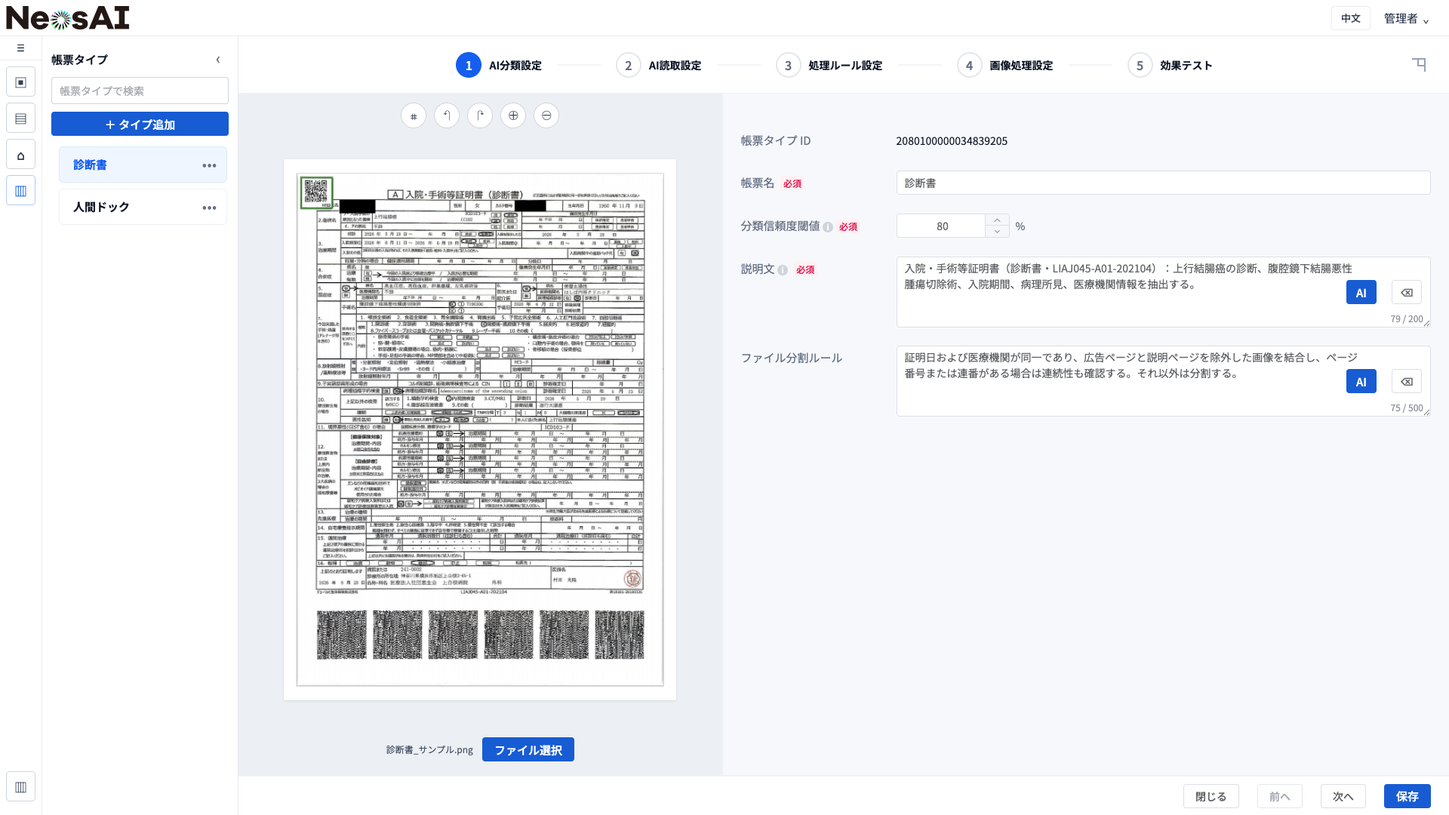
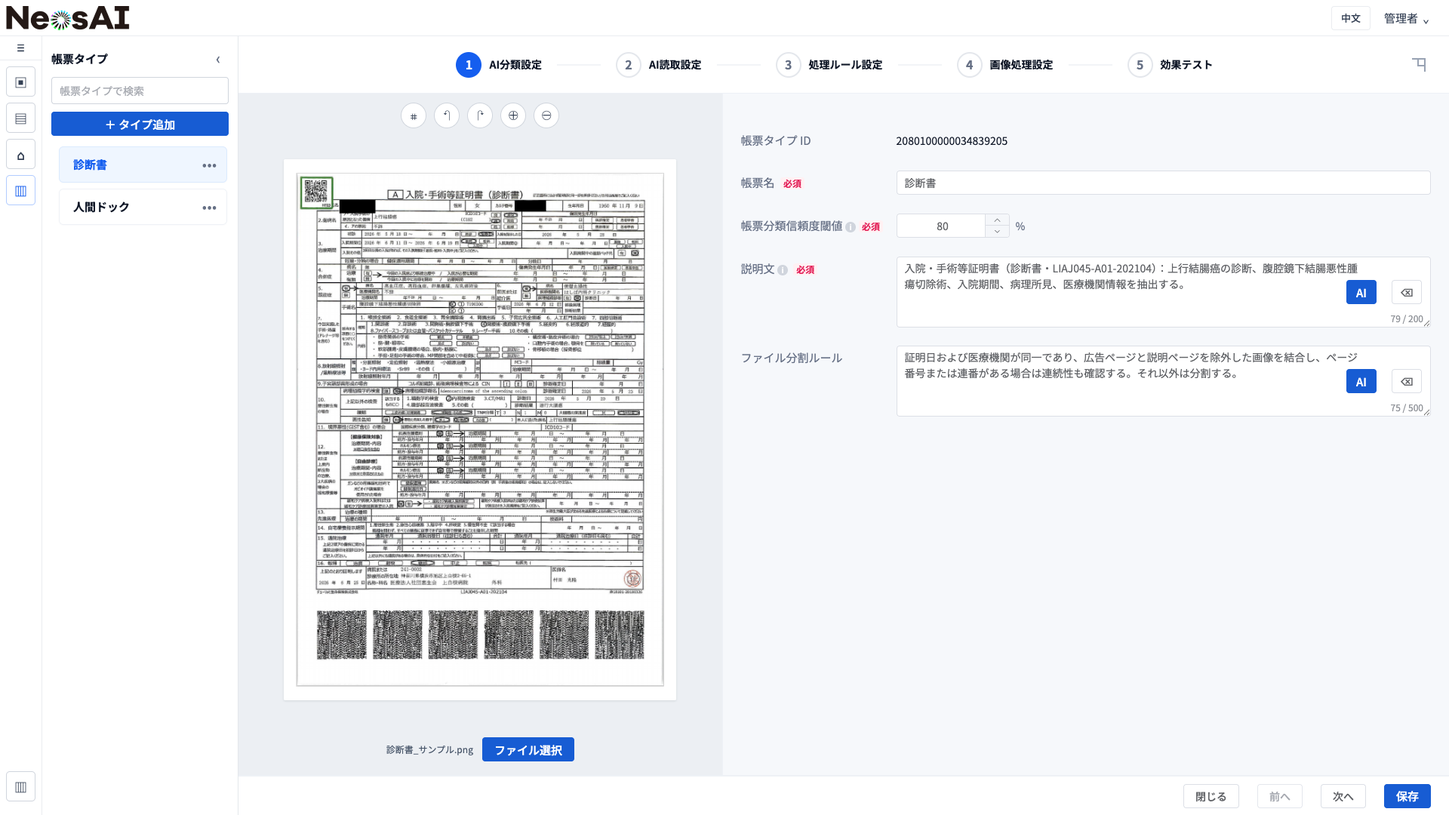
帳票タイプ設定：分類信頼度閾値 → 帳票分類信頼度閾値 に改名
原型（Step1 ラベル）・PRD（用語表 / 機能点 / フィールド表 / 界面文案）・図注キャプションを一括で更新し、Step1 スクリーンショットも撮り直した。

diff --git a/prd-public/index.html b/prd-public/index.html
@@ -399,13 +399,13 @@
       </div>
     </aside>
     <main class="main">
-      <div class="main__meta">由 PRD.zh-CN.md 生成 · 2026/10/8 16:58:00</div>
+      <div class="main__meta">由 PRD.zh-CN.md 生成 · 2026/10/8 17:12:06</div>
       <article class="paper">
 <h1>NeosAI 日本保险 IDP — 产品需求文档</h1>
 <p>本稿表记：<mark class="change-modified">黄色＝修改</mark>、<ins class="change-added">蓝色＝新增</ins>、<del class="change-deleted">红色＝删除</del>。</p>
 <h2 id="chapter-1" class="chapter-heading">第 1 章｜术语与词汇表</h2>
 <h3 class="section-heading">1.1 术语表（本期新增）</h3>
-<table><thead><tr><th>中文</th><th>日语/界面</th><th>定义</th></tr></thead><tbody><tr><td>画像不正検知</td><td>画像不正検知</td><td>前处理节点内模块：一级开关；二级为 PS検出 / AI生成検出 / 帳票特徴検出 / 筆跡検出，各自独立开关 + 对象账票（分开选，默认均 ON）。运行时四个二级检测并行执行。模型输出通过/不通过，不通过时须返回不正类型字段给后端</td></tr><tr><td>不正类型</td><td>不正タイプ</td><td>画像不正検知判「不通过」时返回的枚举（与命中的二级检测对应，如 PS / AI生成 / 帳票特徴 / 筆跡）；供后端与前处理人工确认页展示</td></tr><tr><td>QR 字段读取</td><td>QR読取（複数）</td><td>运行时能力：针对 Step2 字段读取 tab（界面：テキスト読取）的 QR 读取<del class="change-deleted">，按 admin 配置的字段映射逐字段写值</del><mark class="change-modified">（LIAJ 診断書模板为 QR 連結読取，按字段顺序整体写值）</mark>；OCR 节点执行时工具扫描/解码并写值；テーブル情報読取 不参与 QR</td></tr><tr><td><del class="change-deleted">QR 源</del></td><td><del class="change-deleted">QRソース</del></td><td><del class="change-deleted">账票级逻辑槽位（QR1、QR2…）；配置端在固定账票下方扫描区域内从左到右检出；检出几个生成几个；目录仅展示扫描结果，不可手动删改</del></td></tr><tr><td><del class="change-deleted">取值方法</del></td><td><del class="change-deleted">取値方法</del></td><td><del class="change-deleted">字段级 QR 分隔开关：关闭时全文取值（QR扫描到的内容全部填入该字段），开启时按分隔符与字段排序取值</del></td></tr><tr><td><ins class="change-added">QR 連結読取</ins></td><td><ins class="change-added">QR読取（連結）</ins></td><td><ins class="change-added">LIAJ 診断書模板专用的读取方式：把多个数据 QR 的解码结果按槽位顺序接成一长串，用 <code>$</code> 和 <code>^</code> 两个同级分隔符切开，再照字段表的顺序一个字段填一个值。切出来的值有几个，就叫「写入值数」；写入值数必须刚好等于该账票已配置的字段数（即字段表行数，A01 当前为 407），对不上就整份诊断书改走 OCR</ins></td></tr><tr><td><ins class="change-added">QR 槽位</ins></td><td><ins class="change-added">QR1、QR2…（槽位）</ins></td><td><ins class="change-added">固定账票下方扫描区从左到右检出的 QR 位置（QR1、QR2…）。槽位数不预设，扫到几个就是几个，每个账票的 QR 仕样里也不写死个数。槽位条只列实际检出的 QR，不决定走 QR 还是 OCR</ins></td></tr><tr><td><del class="change-deleted">分隔符</del></td><td><del class="change-deleted">区切り文字</del></td><td><del class="change-deleted">分隔模式下用于切分 QR 解码串的分隔符；连续分隔符之间视为空字段；段内空串或空值占位亦视为空</del></td></tr><tr><td><del class="change-deleted">字段排序</del></td><td><del class="change-deleted">順序</del></td><td><del class="change-deleted">分隔模式下，从 QR 解码串中取第几个片段（1 起）；同一 QR 源内 N=该源分隔映射字段总数，順序须为 1～N 连号且不重复</del></td></tr><tr><td>正常范围</td><td>正常範囲</td><td>Step3 正常条件：按 処理ルール（后处理规则）决定可否配置；マスタ照合、テキスト置換 不可配；其余规则可选；比较对象为 処理ルール 后处理产物</td></tr><tr><td>字段 HITL</td><td>HITL</td><td>Step2 <del class="change-deleted">OCR設定</del><mark class="change-modified">字段读取 tab</mark> 字段/表格列开关：指定该字段是否为人工确认对象。ON（默认）= 参与人工确认；OFF = 不参与（不进确认画面）。</td></tr><tr><td>脱敏标记</td><td>マスク</td><td>Step2 字段级打码标记（与 HITL 并列的独立开关，默认 OFF；仅 テキスト読取 字段表，テーブル情報読取 的列定义不提供该开关）。ON 的字段在下游自动排除：Step3 処理ルール 不出现该字段（含 AI匹配草案与正常条件校验，残留错误自动清除）；Step5 効果テスト 文本卡片不显示。与前处理节点敏感情报检出（账票级脱敏工程）的衔接待后续明确</td></tr><tr><td>敏感情报检出</td><td>敏感情報検出</td><td>前处理节点子模块：模块开关 + 对象账票（账票级）。对象账票可选范围暂为业务场景 Step1 关联账票；字段级打码见账票类型 Step2 マスク开关，与节点脱敏工程的衔接待后续明确</td></tr><tr><td>分類信頼度閾値</td><td>分類信頼度閾値</td><td>Step1 必填项：案件集约识别分类阶段的账票分类置信度下限（百分比）</td></tr><tr><td>账票类型设置</td><td>帳票タイプ設定</td><td>配置端账票主数据模块；Step2 含 <del class="change-deleted">OCR/QR 双模式、</del>字段 HITL 与 マスク；Step3 含処理ルール与正常范围（マスク字段自动排除）；Step4 为前处理图像级设置（无字段级マスク）；Step5 効果テスト 按マスク结果隐藏卡片</td></tr><tr><td>提示词</td><td>プロンプト</td><td>Step2 字段/列的读取提示词：约束 OCR 模型从账票何处抽取、输出格式与抽出单位（含单位换算）；界面列名 プロンプト = 提示词</td></tr><tr><td>字段类别</td><td>タイプ</td><td>Step2 字段/列的数据类别（<code>string</code> / <code>number</code> / <code>enum</code> 等）；决定 OCR 读取与后处理的数据形态；不承载计量单位（量纲见 プロンプト（提示词））；不单独决定 Step3 正常条件可否配置</td></tr><tr><td>抽出单位</td><td>（プロンプト（提示词）约定）</td><td>Step2 プロンプト（提示词）中由 admin 自行约定的 OCR 输出计量单位（如 cm、円、日）；不由 タイプ（字段类别）自动推导；正解サンプル 与 Step3 正常条件阈值须与约定量纲对齐</td></tr></tbody></table>
+<table><thead><tr><th>中文</th><th>日语/界面</th><th>定义</th></tr></thead><tbody><tr><td>画像不正検知</td><td>画像不正検知</td><td>前处理节点内模块：一级开关；二级为 PS検出 / AI生成検出 / 帳票特徴検出 / 筆跡検出，各自独立开关 + 对象账票（分开选，默认均 ON）。运行时四个二级检测并行执行。模型输出通过/不通过，不通过时须返回不正类型字段给后端</td></tr><tr><td>不正类型</td><td>不正タイプ</td><td>画像不正検知判「不通过」时返回的枚举（与命中的二级检测对应，如 PS / AI生成 / 帳票特徴 / 筆跡）；供后端与前处理人工确认页展示</td></tr><tr><td>QR 字段读取</td><td>QR読取（複数）</td><td>运行时能力：针对 Step2 字段读取 tab（界面：テキスト読取）的 QR 读取<del class="change-deleted">，按 admin 配置的字段映射逐字段写值</del><mark class="change-modified">（LIAJ 診断書模板为 QR 連結読取，按字段顺序整体写值）</mark>；OCR 节点执行时工具扫描/解码并写值；テーブル情報読取 不参与 QR</td></tr><tr><td><del class="change-deleted">QR 源</del></td><td><del class="change-deleted">QRソース</del></td><td><del class="change-deleted">账票级逻辑槽位（QR1、QR2…）；配置端在固定账票下方扫描区域内从左到右检出；检出几个生成几个；目录仅展示扫描结果，不可手动删改</del></td></tr><tr><td><del class="change-deleted">取值方法</del></td><td><del class="change-deleted">取値方法</del></td><td><del class="change-deleted">字段级 QR 分隔开关：关闭时全文取值（QR扫描到的内容全部填入该字段），开启时按分隔符与字段排序取值</del></td></tr><tr><td><ins class="change-added">QR 連結読取</ins></td><td><ins class="change-added">QR読取（連結）</ins></td><td><ins class="change-added">LIAJ 診断書模板专用的读取方式：把多个数据 QR 的解码结果按槽位顺序接成一长串，用 <code>$</code> 和 <code>^</code> 两个同级分隔符切开，再照字段表的顺序一个字段填一个值。切出来的值有几个，就叫「写入值数」；写入值数必须刚好等于该账票已配置的字段数（即字段表行数，A01 当前为 407），对不上就整份诊断书改走 OCR</ins></td></tr><tr><td><ins class="change-added">QR 槽位</ins></td><td><ins class="change-added">QR1、QR2…（槽位）</ins></td><td><ins class="change-added">固定账票下方扫描区从左到右检出的 QR 位置（QR1、QR2…）。槽位数不预设，扫到几个就是几个，每个账票的 QR 仕样里也不写死个数。槽位条只列实际检出的 QR，不决定走 QR 还是 OCR</ins></td></tr><tr><td><del class="change-deleted">分隔符</del></td><td><del class="change-deleted">区切り文字</del></td><td><del class="change-deleted">分隔模式下用于切分 QR 解码串的分隔符；连续分隔符之间视为空字段；段内空串或空值占位亦视为空</del></td></tr><tr><td><del class="change-deleted">字段排序</del></td><td><del class="change-deleted">順序</del></td><td><del class="change-deleted">分隔模式下，从 QR 解码串中取第几个片段（1 起）；同一 QR 源内 N=该源分隔映射字段总数，順序须为 1～N 连号且不重复</del></td></tr><tr><td>正常范围</td><td>正常範囲</td><td>Step3 正常条件：按 処理ルール（后处理规则）决定可否配置；マスタ照合、テキスト置換 不可配；其余规则可选；比较对象为 処理ルール 后处理产物</td></tr><tr><td>字段 HITL</td><td>HITL</td><td>Step2 <del class="change-deleted">OCR設定</del><mark class="change-modified">字段读取 tab</mark> 字段/表格列开关：指定该字段是否为人工确认对象。ON（默认）= 参与人工确认；OFF = 不参与（不进确认画面）。</td></tr><tr><td>脱敏标记</td><td>マスク</td><td>Step2 字段级打码标记（与 HITL 并列的独立开关，默认 OFF；仅 テキスト読取 字段表，テーブル情報読取 的列定义不提供该开关）。ON 的字段在下游自动排除：Step3 処理ルール 不出现该字段（含 AI匹配草案与正常条件校验，残留错误自动清除）；Step5 効果テスト 文本卡片不显示。与前处理节点敏感情报检出（账票级脱敏工程）的衔接待后续明确</td></tr><tr><td>敏感情报检出</td><td>敏感情報検出</td><td>前处理节点子模块：模块开关 + 对象账票（账票级）。对象账票可选范围暂为业务场景 Step1 关联账票；字段级打码见账票类型 Step2 マスク开关，与节点脱敏工程的衔接待后续明确</td></tr><tr><td>帳票分類信頼度閾値</td><td>帳票分類信頼度閾値</td><td>Step1 必填项：案件集约识别分类阶段的账票分类置信度下限（百分比）</td></tr><tr><td>账票类型设置</td><td>帳票タイプ設定</td><td>配置端账票主数据模块；Step2 含 <del class="change-deleted">OCR/QR 双模式、</del>字段 HITL 与 マスク；Step3 含処理ルール与正常范围（マスク字段自动排除）；Step4 为前处理图像级设置（无字段级マスク）；Step5 効果テスト 按マスク结果隐藏卡片</td></tr><tr><td>提示词</td><td>プロンプト</td><td>Step2 字段/列的读取提示词：约束 OCR 模型从账票何处抽取、输出格式与抽出单位（含单位换算）；界面列名 プロンプト = 提示词</td></tr><tr><td>字段类别</td><td>タイプ</td><td>Step2 字段/列的数据类别（<code>string</code> / <code>number</code> / <code>enum</code> 等）；决定 OCR 读取与后处理的数据形态；不承载计量单位（量纲见 プロンプト（提示词））；不单独决定 Step3 正常条件可否配置</td></tr><tr><td>抽出单位</td><td>（プロンプト（提示词）约定）</td><td>Step2 プロンプト（提示词）中由 admin 自行约定的 OCR 输出计量单位（如 cm、円、日）；不由 タイプ（字段类别）自动推导；正解サンプル 与 Step3 正常条件阈值须与约定量纲对齐</td></tr></tbody></table>
 <h3 class="section-heading">1.2 易混术语</h3>
 <table><thead><tr><th>中文</th><th>区分要点</th></tr></thead><tbody><tr><td><del class="change-deleted">OCR 读取设定 vs QR 读取设定</del></td><td><del class="change-deleted">字段主数据在 OCR 读取设定维护，QR 读取设定只配 QR 源与取值；テーブル情報読取 固定 OCR</del></td></tr><tr><td><del class="change-deleted">账票读取模式 vs 字段 OCR 兜底</del></td><td><del class="change-deleted">QR設定 下逐字段路由：① 未选 QRソース → 该字段 OCR；② 已选且 QR 扫描有效（含空值）→ 映射写值，不兜底；③ 已选但 QR 扫描无效（未扫出）→ 该字段 OCR 兜底；OCR設定 则全字段 OCR；LIAJ 診断書模板为 QR 連結読取：整份判定，写入值数不足则整份 OCR</del></td></tr><tr><td><mark class="change-modified">QR 連結読取 vs Step3 QRコード</mark></td><td><del class="change-deleted">Step2 QR 仅扫描样张底部区域多码目录</del><mark class="change-modified">Step2 字段读取 tab 的 QR 連結読取（LIAJ 診断書模板）扫描样张底部区域多码，按字段顺序整体写值</mark>；Step3 処理ルール「QRコード」保留，用于非诊断书等顶部单码场景（Step2 扫不到顶部码）</td></tr><tr><td>敏感情报检出 vs 画像不正検知</td><td>脱敏为前处理工程（账票级开关 + 对象账票；字段级打码见账票类型 Step2 マスク）；画像不正为一级模块开关 + 二级检测（PS / AI生成 / 帳票特徴 / 筆跡，各自开关与对象账票分开选，运行时四项并行），不通过时返回不正类型 → 前处理人工确认待办</td></tr><tr><td>マスク vs 敏感情报检出</td><td>マスク（字段级）在账票类型 Step2 配置，决定下游 Step3/Step5 的字段排除与卡片隐藏；敏感情报检出（节点）定账票级是否执行。本期对象账票 = Step1 关联账票；两者衔接待后续明确</td></tr><tr><td>字段 HITL vs 人工确认规则</td><td>人工确认规则定「何种条件触发要確認」；字段 HITL 定「该字段是否为人工确认对象」：ON（默认）参与，OFF 不参与</td></tr><tr><td>正常范围 vs Master 照合</td><td>正常条件是否展示由 Step3 処理ルール 决定（マスタ照合、テキスト置換 不可配）；与 Step2 タイプ（字段类别）解耦；マスタ照合 仍走 OCR 确认规则 3～5</td></tr><tr><td>正常范围 vs AI 检证</td><td>正常范围在账票 Step3 配置、OCR 节点执行时校验；AI 检证在独立节点跨字段</td></tr><tr><td>配置 test vs 前处理确认预览</td><td>Step5 効果テスト 按マスク结果排除文本卡片；遮挡预览与打码在前处理确认页（字段级范围待后续明确）</td></tr><tr><td>配置 test vs OCR 抽出确认</td><td>Step5 展示取值来源（QR/OCR) ；OCR 抽出确认页不展示来源标签</td></tr><tr><td>タイプ（字段类别） vs プロンプト（提示词）</td><td>タイプ（字段类别） 与 プロンプト（提示词） 独立配置：タイプ 声明字段类别与 OCR 数据形态；プロンプト 由 admin 按字段/列自行编写（或 AI自動生成 后编辑），不按 タイプ 分模板、不做类型校验；量纲（cm / 円 等）写在 プロンプト；正解サンプル须与 プロンプト 对齐；正常条件可否配置由 処理ルール 决定</td></tr><tr><td>规则 6 vs 规则 7 vs QR 写值</td><td>规则 6（正常値範囲を超えています）：全路径（含 QR 写值）越界 alone 即命中；规则 7（低信頼度かつ…）：仅 OCR / QR→OCR 兜底，须低置信 且 越界；默认勾选 规则 6 + 7</td></tr></tbody></table>
 <h2 id="chapter-2" class="chapter-heading">第 2 章｜用户交互流程</h2>
@@ -532,7 +532,7 @@
 <table><thead><tr><th>场景</th><th>条件</th><th>用户提示 / 处理</th></tr></thead><tbody><tr><td>Step2 · 敏感情报检出失败</td><td>敏感情报检出模块执行失败</td><td>preprocessStatus=failed；走案件异常；不新增脱敏专用待办</td></tr><tr><td>Step2 · 画像不正不通过</td><td>画像不正検知判「不通过」</td><td>preprocessResult=reviewRequired；返回不正类型（PS / AI生成 / 帳票特徴 / 筆跡）给后端；进前处理人工确认</td></tr><tr><td>Step3 · 邮件地址分隔与空白</td><td>メール宛先 输入全角逗号 <code>，</code> 或地址段前后含空格</td><td>允许：<code>,</code> / <code>，</code> 均可作多地址分隔符；各段 trim 后校验；不因分隔符全半角或首尾空格报错</td></tr><tr><td>Step3 · 勾选站内信未选对象</td><td>渠道含システム通知但通知対象为空</td><td>保存报错（<code>通知対象を選択してください</code>）</td></tr><tr><td>Step3 · 勾选邮件未填邮箱</td><td>渠道含メール但メール宛先为空</td><td>保存报错（<code>メール宛先を入力してください</code>）</td></tr><tr><td>Step3 · 邮件地址格式错误</td><td>trim 后仍含无效邮箱（如全角 <code>@</code>、缺 <code>@</code> 等）</td><td>保存报错（<code>メールアドレスの形式が正しくありません: …</code>）；列出无效地址</td></tr><tr><td>Step3 · 件名/正文未填</td><td>件名或正文为空</td><td>保存报错（<code>件名を入力してください</code> / <code>内容を入力してください</code>）</td></tr><tr><td>Step3 · 邮件投递失败</td><td>运行时邮件服务失败</td><td>记日志；工作流继续（不阻断）</td></tr><tr><td>Step2 · 範囲選択モード：点击节点</td><td>点击任意节点</td><td>只切换选中；不打开右侧编辑面板</td></tr><tr><td>Step2 · 範囲選択モード：选中集合只含開始ノード</td><td>右键 複製</td><td>提示（<code>開始ノードは複製できません。</code>），不产生副本</td></tr><tr><td>Step2 · 範囲選択モード：选中集合只含開始ノード</td><td>右键 削除 或按 ⌫</td><td>提示（<code>開始ノードは削除できません。</code>），节点保留</td></tr><tr><td>Step2 · 範囲選択モード：选中框覆盖节点卡片</td><td>按卡片右上角的叉号（节点削除）</td><td>框内不响应，删除走右键菜单或 ⌫（＋ 连接手柄与连线 × 在该模式下不显示）</td></tr><tr><td>Step2 · 範囲選択モード：拓扑不可编辑</td><td>画布为只读</td><td>範囲選択モード按钮不显示</td></tr></tbody></table>
 <h3 id="sec-6-03" class="section-heading">6.03 账票类型设置</h3>
 <h4 class="subsection-heading" id="fig-功能点">功能点</h4>
-<p>Step1：新增分類信頼度閾値（0～100，必填）；template 样张供 QR 扫描。</p>
+<p>Step1：新增帳票分類信頼度閾値（0～100，必填）；template 样张供 QR 扫描。</p>
 <p>Step2：<del class="change-deleted">QR 仅字段读取tab适配；字段读取内切换 OCR設定 / QR設定；</del><ins class="change-added">LIAJ 診断書模板在字段读取 tab 以 複数 QR 読取 开关走 QR 連結読取，不设读取模式切换、不配字段映射，按字段顺序整体写值；</ins>OCR 维护字段/列主数据 + HITL + 拖拽顺序/删减等；【AI自動生成】 仅 OCR 字段/列，不生成 QR 相关配置。マスク列与 HITL 并列配置（仅 テキスト読取 字段表）；マスク=ON 的字段在 Step3/Step5 自动排除，Step5 卡片隐藏。</p>
 <p>Step3：字段读取 / 表格读取 新增正常条件列（範囲内、&lt;、≤、&gt;、≥、列挙）；读取模型弹窗七项确认规则见 6.04。</p>
 <p>Step5：test 展示字段值、读取来源（QR読取 / OCR読取）、HITL=ON 且规则命中时输入框标红；マスク=ON 的字段卡片隐藏。本期 QR <del class="change-deleted">扫描与映射</del><mark class="change-modified">連結読取</mark>以 Z 客户诊断书 template 为主。</p>
@@ -587,14 +587,14 @@
 <h4 class="subsection-heading" id="fig-step1-分类设定">Step1 分类设定</h4>
 <div class="figure-row figure-row--single">
 <figure class="screenshot-figure">
-  <button type="button" class="screenshot-trigger" data-lightbox="prd-shots" data-index="0" data-src="assets/fixed-doc-step1-classification-threshold.png?v=1790739516861" data-caption="账票类型 Step1 · 分類信頼度閾値（案件集约时的画像分类置信度）">
-    <img src="assets/fixed-doc-step1-classification-threshold.png?v=1790739516861" alt="账票类型 Step1 · 分類信頼度閾値（案件集约时的画像分类置信度）" loading="lazy" />
+  <button type="button" class="screenshot-trigger" data-lightbox="prd-shots" data-index="0" data-src="assets/fixed-doc-step1-classification-threshold.png?v=1791450704775" data-caption="账票类型 Step1 · 帳票分類信頼度閾値（案件集约时的画像分类置信度）">
+    <img src="assets/fixed-doc-step1-classification-threshold.png?v=1791450704775" alt="账票类型 Step1 · 帳票分類信頼度閾値（案件集约时的画像分类置信度）" loading="lazy" />
   </button>
-  <figcaption>账票类型 Step1 · 分類信頼度閾値（案件集约时的画像分类置信度）</figcaption>
+  <figcaption>账票类型 Step1 · 帳票分類信頼度閾値（案件集约时的画像分类置信度）</figcaption>
 </figure>
 </div>
-<table><thead><tr><th>字段/参数</th><th>界面文案（日语）</th><th>控件</th><th>必填</th><th>校验</th><th>下游消费</th></tr></thead><tbody><tr><td>分类置信度阈值</td><td>分類信頼度閾値</td><td>数字输入</td><td>是</td><td>0～100 整数，后缀 %</td><td>案件集约 · 画像分类；低于阈值 → 前处理确认中触发目视检查</td></tr><tr><td>template 样张</td><td>—</td><td>文件上传</td><td>否</td><td>换样张后重新 <del class="change-deleted">QR扫描</del><mark class="change-modified">再スキャン</mark></td><td>Step2 QR 扫描</td></tr></tbody></table>
-<p>界面文案：分類信頼度閾値 旁 i 提示「案件集約時の画像分類信頼度。この値未満の場合は、前処理確認で目視検査が発生します。」；必填标记「必須」。</p>
+<table><thead><tr><th>字段/参数</th><th>界面文案（日语）</th><th>控件</th><th>必填</th><th>校验</th><th>下游消费</th></tr></thead><tbody><tr><td>分类置信度阈值</td><td>帳票分類信頼度閾値</td><td>数字输入</td><td>是</td><td>0～100 整数，后缀 %</td><td>案件集约 · 画像分类；低于阈值 → 前处理确认中触发目视检查</td></tr><tr><td>template 样张</td><td>—</td><td>文件上传</td><td>否</td><td>换样张后重新 <del class="change-deleted">QR扫描</del><mark class="change-modified">再スキャン</mark></td><td>Step2 QR 扫描</td></tr></tbody></table>
+<p>界面文案：帳票分類信頼度閾値 旁 i 提示「案件集約時の画像分類信頼度。この値未満の場合は、前処理確認で目視検査が発生します。」；必填标记「必須」。</p>
 <h4 class="subsection-heading" id="fig-del-classchange-deletedstep2-读取模式delins-classchange-addedstep2-字段读取-tabins"><del class="change-deleted">Step2 读取模式</del><ins class="change-added">Step2 字段读取 tab</ins></h4>
 <p><del class="change-deleted">Step2 分字段读取（テキスト読取）与表格读取（テーブル情報読取）两个 tab。OCR/QR 模式切换、QR 源与字段映射仅在字段读取 tab；切至表格读取 tab 时强制 OCR設定。</del><ins class="change-added">Step2 分字段读取（テキスト読取）与表格读取（テーブル情報読取）两个 tab，不设 OCR / QR 读取模式切换。LIAJ 診断書模板在字段读取 tab 内以 複数 QR 読取 开关控制 QR 連結読取，不配字段映射；表格读取 tab 无 QR 相关项。</ins></p>
 <table><thead><tr><th>字段/参数</th><th>界面文案（日语）</th><th>控件</th><th>必填</th><th>说明</th><th>下游消费</th></tr></thead><tbody><tr><td>读取 tab</td><td>テキスト読取 / テーブル情報読取</td><td>tab</td><td>—</td><td>字段读取 / 表格读取</td><td>—</td></tr><tr><td><del class="change-deleted">读取设定</del></td><td><del class="change-deleted">OCR設定 / QR設定</del></td><td><del class="change-deleted">轻量切换</del></td><td><del class="change-deleted">字段读取 tab 内</del></td><td><del class="change-deleted">二选一；QR設定 下逐字段路由（未选 QRソース → OCR）；LIAJ 診断書模板以 QR 読取 开关控制，整份判定；表格读取 tab 不展示</del></td><td><del class="change-deleted">运行时路由</del></td></tr></tbody></table>

diff --git a/index.html b/index.html
@@ -284,7 +284,7 @@
                     </div>
                     <div class="fixed-doc-form-row">
                       <label>
-                        分類信頼度閾値
+                        帳票分類信頼度閾値
                         <el-tooltip placement="top" :show-after="200">
                           <template #content>
                             案件集約時の画像分類信頼度。この値未満の場合は、前処理確認で目視検査が発生します。

diff --git a/public/index.html b/public/index.html
@@ -284,7 +284,7 @@
                     </div>
                     <div class="fixed-doc-form-row">
                       <label>
-                        分類信頼度閾値
+                        帳票分類信頼度閾値
                         <el-tooltip placement="top" :show-after="200">
                           <template #content>
                             案件集約時の画像分類信頼度。この値未満の場合は、前処理確認で目視検査が発生します。

diff --git a/PRD.zh-CN.md b/PRD.zh-CN.md
@@ -22,7 +22,7 @@
 | 字段 HITL  | HITL             | Step2 <del class="change-deleted">OCR設定</del><mark class="change-modified">字段读取 tab</mark> 字段/表格列开关：指定该字段是否为人工确认对象。ON（默认）= 参与人工确认；OFF = 不参与（不进确认画面）。 |
 | 脱敏标记    | マスク            | Step2 字段级打码标记（与 HITL 并列的独立开关，默认 OFF；仅 テキスト読取 字段表，テーブル情報読取 的列定义不提供该开关）。ON 的字段在下游自动排除：Step3 処理ルール 不出现该字段（含 AI匹配草案与正常条件校验，残留错误自动清除）；Step5 効果テスト 文本卡片不显示。与前处理节点敏感情报检出（账票级脱敏工程）的衔接待后续明确 |
 | 敏感情报检出  | 敏感情報検出         | 前处理节点子模块：模块开关 + 对象账票（账票级）。对象账票可选范围暂为业务场景 Step1 关联账票；字段级打码见账票类型 Step2 マスク开关，与节点脱敏工程的衔接待后续明确 |
-| 分類信頼度閾値 | 分類信頼度閾値        | Step1 必填项：案件集约识别分类阶段的账票分类置信度下限（百分比）                                                                                                              |
+| 帳票分類信頼度閾値 | 帳票分類信頼度閾値        | Step1 必填项：案件集约识别分类阶段的账票分类置信度下限（百分比）                                                                                                              |
 | 账票类型设置  | 帳票タイプ設定        | 配置端账票主数据模块；Step2 含 <del class="change-deleted">OCR/QR 双模式、</del>字段 HITL 与 マスク；Step3 含処理ルール与正常范围（マスク字段自动排除）；Step4 为前处理图像级设置（无字段级マスク）；Step5 効果テスト 按マスク结果隐藏卡片 |
 | 提示词     | プロンプト          | Step2 字段/列的读取提示词：约束 OCR 模型从账票何处抽取、输出格式与抽出单位（含单位换算）；界面列名 プロンプト = 提示词                                                                              |
 | 字段类别    | タイプ            | Step2 字段/列的数据类别（`string` / `number` / `enum` 等）；决定 OCR 读取与后处理的数据形态；**不承载计量单位**（量纲见 プロンプト（提示词））；**不单独决定** Step3 正常条件可否配置                                            |
@@ -348,7 +348,7 @@ Step1 上传 template → Step2 字段读取 · 複数 QR 読取 开关 ON → S
 
 #### 功能点
 
-Step1：新增分類信頼度閾値（0～100，必填）；template 样张供 QR 扫描。
+Step1：新增帳票分類信頼度閾値（0～100，必填）；template 样张供 QR 扫描。
 
 Step2：<del class="change-deleted">QR 仅字段读取tab适配；字段读取内切换 OCR設定 / QR設定；</del><ins class="change-added">LIAJ 診断書模板在字段读取 tab 以 複数 QR 読取 开关走 QR 連結読取，不设读取模式切换、不配字段映射，按字段顺序整体写值；</ins>OCR 维护字段/列主数据 + HITL + 拖拽顺序/删减等；【AI自動生成】 仅 OCR 字段/列，不生成 QR 相关配置。マスク列与 HITL 并列配置（仅 テキスト読取 字段表）；マスク=ON 的字段在 Step3/Step5 自动排除，Step5 卡片隐藏。
 
@@ -440,11 +440,11 @@ flowchart TD
 
 | 字段/参数       | 界面文案（日语） | 控件   | 必填  | 校验            | 下游消费                    |
 | ----------- | -------- | ---- | --- | ------------- | ----------------------- |
-| 分类置信度阈值     | 分類信頼度閾値  | 数字输入 | 是   | 0～100 整数，后缀 % | 案件集约 · 画像分类；低于阈值 → 前处理确认中触发目视检查 |
+| 分类置信度阈值     | 帳票分類信頼度閾値  | 数字输入 | 是   | 0～100 整数，后缀 % | 案件集约 · 画像分类；低于阈值 → 前处理确认中触发目视检查 |
 | template 样张 | —        | 文件上传 | 否   | 换样张后重新 <del class="change-deleted">QR扫描</del><mark class="change-modified">再スキャン</mark>   | Step2 QR 扫描             |
 
 
-界面文案：分類信頼度閾値 旁 i 提示「案件集約時の画像分類信頼度。この値未満の場合は、前処理確認で目視検査が発生します。」；必填标记「必須」。
+界面文案：帳票分類信頼度閾値 旁 i 提示「案件集約時の画像分類信頼度。この値未満の場合は、前処理確認で目視検査が発生します。」；必填标记「必須」。
 
 #### <del class="change-deleted">Step2 读取模式</del><ins class="change-added">Step2 字段读取 tab</ins>
 
